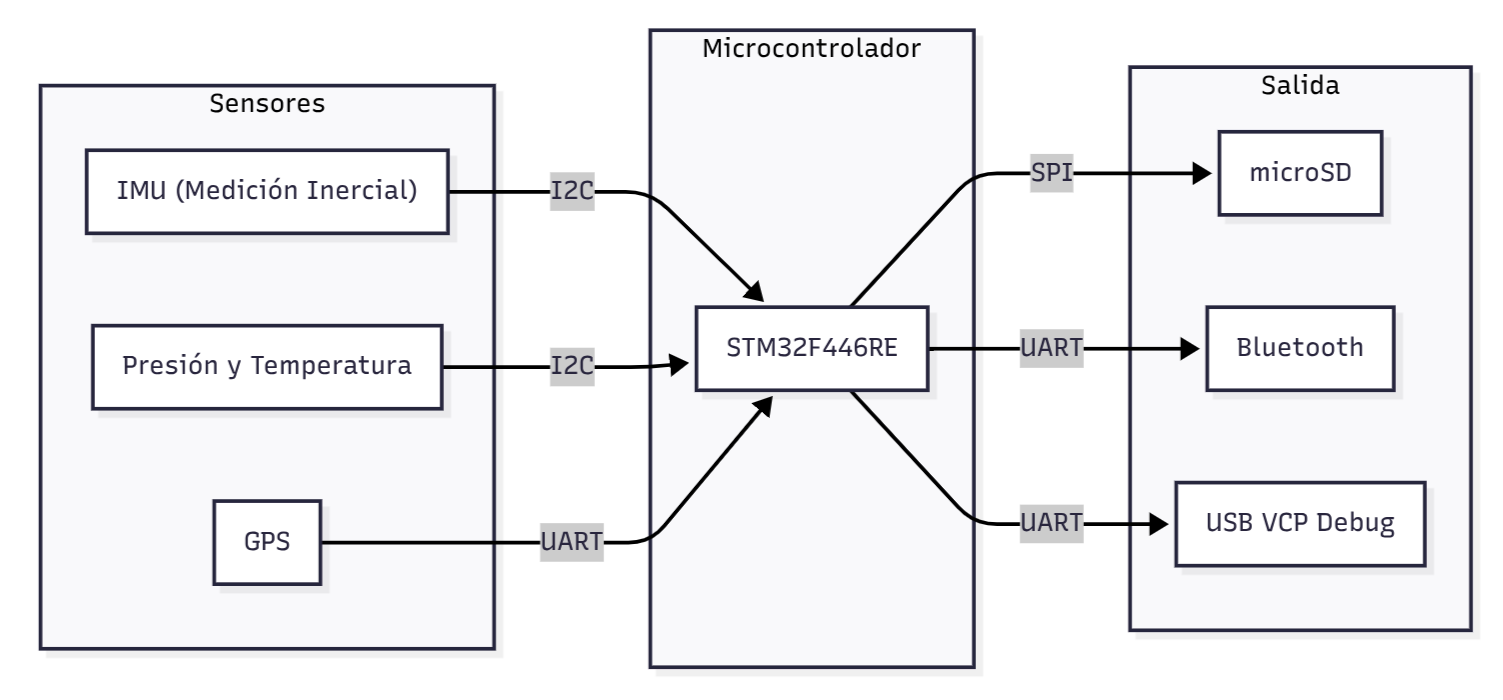
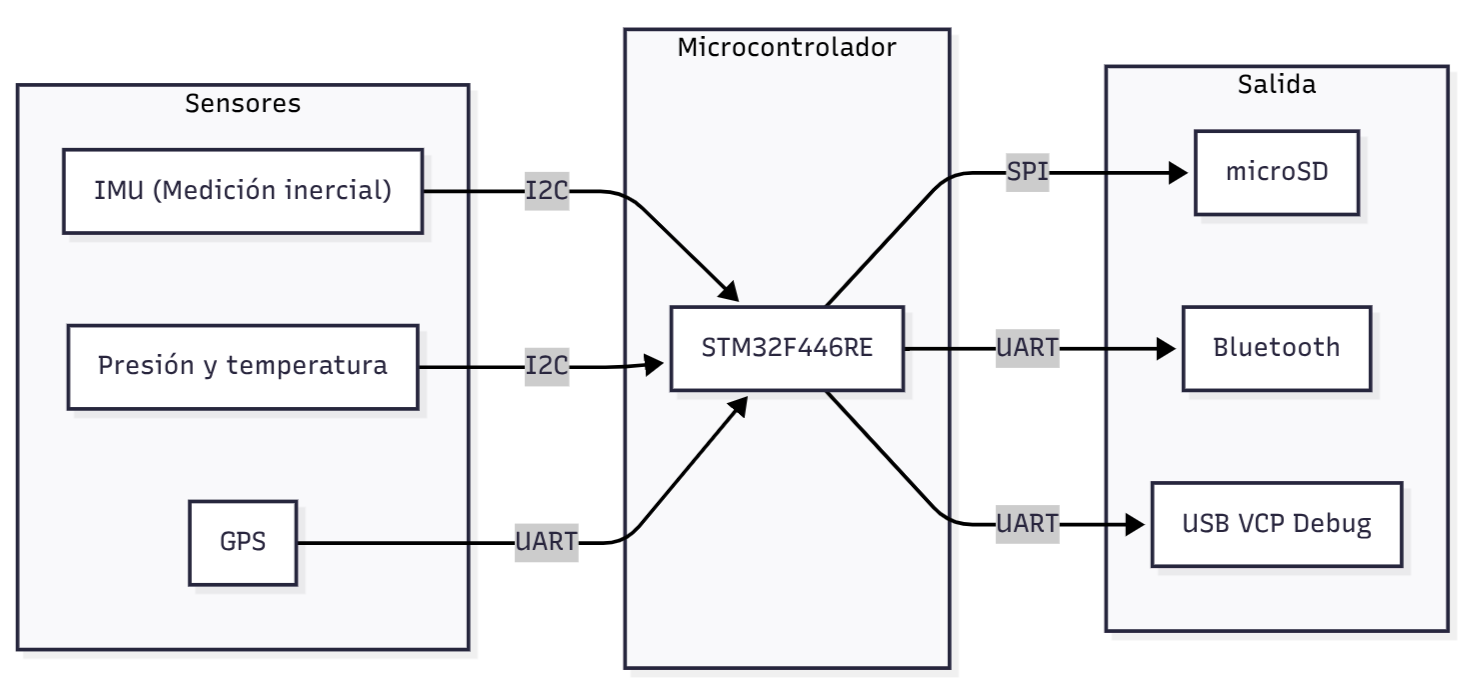
Correciones primera entrega

diff --git a/charter.tex b/charter.tex
@@ -5,7 +5,7 @@
 
 
 % El títulos de la memoria, se usa en la carátula y se puede usar el cualquier lugar del documento con el comando \ttitle
-\titulo{Sistema de Telemetría y Detección de Eventos para Motocicletas} 
+\titulo{Sistema de telemetría y detección de eventos para motocicletas} 
 
 % Nombre del posgrado, se usa en la carátula y se puede usar el cualquier lugar del documento con el comando \degreename
 \posgrado{Carrera de Especialización en Sistemas Embebidos} 
@@ -30,7 +30,7 @@
  
 \fechaINICIO{28 de abril de 2026}		%Fecha de inicio de la cursada de GdP \fechaInicioName
 \fechaFINALPlan{16 de junio de 2026} 	%Fecha de final de cursada de GdP
-\fechaFINALTrabajo{SIN DEFINIR}	%Fecha de defensa pública del trabajo final
+\fechaFINALTrabajo{mes de diciembre 2026}	%Fecha de defensa pública del trabajo final
 
 
 \begin{document}
@@ -85,7 +85,7 @@ Buenos Aires, \fechaInicioName
 
 \vspace{2cm}
 
-Por medio de la presente se acuerda con el \authorname\hspace{1px} que su Trabajo Final de la \degreename\hspace{1px} se titulará ``\ttitle'' y consistirá en el desarrollo de un sistema embebido de adquisición, registro y transmisión en tiempo real de datos de telemetría para motocicletas. El trabajo tendrá un presupuesto preliminar estimado de \textcolor{red}{600} horas y un costo estimado de \textcolor{red}{\$ XXX}, con fecha de inicio el \fechaInicioName\hspace{1px} y fecha de presentación pública el \fechaFinalName.
+Por medio de la presente se acuerda con el \authorname\hspace{1px} que su Trabajo Final de la \degreename\hspace{1px} se titulará ``\ttitle'' y consistirá en el desarrollo de un sistema embebido de adquisición, registro y transmisión en tiempo real de datos de telemetría para motocicletas. El trabajo tendrá un presupuesto preliminar estimado de \textcolor{red}{600} horas y un costo estimado de \textcolor{red}{\$ XXX}, con fecha de inicio el \fechaInicioName\hspace{1px} y fecha de presentación pública en el \fechaFinalName.
 
 Se adjunta a esta acta la planificación inicial.
 
@@ -106,7 +106,7 @@ Se adjunta a esta acta la planificación inicial.
 
 El proyecto consiste en el desarrollo de un un sistema embebido de adquisición, registro y transmisión de telemetría para motocicletas. El dispositivo está diseñado para capturar variables cinemáticas, ambientales y eléctricas, con un enfoque mixto entre el monitoreo de la conducción y la documentación de rutas.
 
-El mismo se encuadra como un emprendimiento personal en el marco del Trabajo Final de la \textit{Carrera de Especialización en Sistemas Embebidos} (CESE) de la \textit{Facultad de Ingeniería de la Universidad de Buenos Aires} (FIUBA). La motivación principal surge de la dificultad que enfrentan los motociclistas para acceder a datos precisos sobre su estilo de manejo y el comportamiento dinámico de su vehículo sin recurrir a equipos de alta competición costosos.
+El mismo se encuadra como un emprendimiento personal en el marco del Trabajo Final de la Carrera de Especialización en Sistemas Embebidos (CESE) de la Facultad de Ingeniería de la Universidad de Buenos Aires (FIUBA). La motivación principal surge de la dificultad que enfrentan los motociclistas para acceder a datos precisos sobre su estilo de manejo y el comportamiento dinámico de su vehículo sin recurrir a equipos de alta competición costosos.
 
 En comparación con el estado del arte actual, donde estos sistemas suelen ser costosos y están orientados casi exclusivamente a la competición profesional, esta solución destaca por su accesibilidad y su capacidad de integración. A diferencia de los dispositivos comerciales estándar que se limitan al registro de posición y velocidad, la propuesta integra variables cinemáticas como el ángulo de inclinación, y el estado eléctrico y térmico del vehículo en un solo equipo.
 
@@ -115,11 +115,11 @@ Para abordar esta problemática, el proyecto propone combinar la captura de dato
 El sistema centraliza la información de múltiples sensores mediante interfaces de comunicación comunes (\textit{Inter-Integrated Circuit} (I2C), \textit{Serial Peripheral Interface} (SPI), \textit{Universal Asynchronous Receiver-Transmitter} (UART)). Sus funciones principales incluyen:
 
 \begin{itemize}
-    \item \textbf{Registro de ruta y visualización de viajes:} utiliza un módulo \textit{Global Positioning System} (GPS) para obtener posición y velocidad con alta precisión. Estos datos permiten generar mapas de recorrido dinámicos en una aplicación web, permitiendo al usuario analizar su trayectoria y velocidad en cada tramo.
-    \item \textbf{Detección de eventos críticos:} registra caídas, maniobras bruscas (aceleración/frenado) e inclinaciones excesivas. Al detectar un evento, el sistema lo regsitra para su posterior análisis.
-    \item \textbf{Análisis dinámico:} captura datos de una \textit{IMU} (Inertial Measurement Unit) y un barómetro para estimar ángulos de inclinación, aceleración y altitud.
-    \item \textbf{Gestión de datos:} registra la información en una tarjeta \textit{microSD} mediante un esquema de \textit{double buffering} y transmite vía \textit{Bluetooth} a una aplicación web.
-    \item \textbf{Robustez y autonomía:} incluye un \textit{watchdog} para recuperación automática ante fallos y modos de bajo consumo para optimizar el uso de la batería de la moto.
+    \item Registro de ruta y visualización de viajes: utiliza un módulo \textit{Global Positioning System} (GPS) para obtener posición y velocidad con alta precisión. Estos datos permiten generar mapas de recorrido dinámicos en una aplicación web, permitiendo al usuario analizar su trayectoria y velocidad en cada tramo.
+    \item Detección de eventos críticos: registra caídas, maniobras bruscas (aceleración/frenado) e inclinaciones excesivas. Al detectar un evento, el sistema lo regsitra para su posterior análisis.
+    \item Análisis dinámico: captura datos de una IMU (Inertial Measurement Unit) y un barómetro para estimar ángulos de inclinación, aceleración y altitud.
+    \item Gestión de datos: registra la información en una tarjeta \textit{microSD} mediante un esquema de \textit{double buffering} y transmite vía Bluetooth a una aplicación web.
+    \item Robustez y autonomía: incluye un \textit{watchdog} para recuperación automática ante fallos y modos de bajo consumo para optimizar el uso de la batería de la moto.
 \end{itemize}
 
 En la figura \ref{fig:diagBloques} se presenta el diagrama en bloques del sistema. Se observa un microcontrolador encargado de coordinar la lectura de todos los sensores y escribir hacia las diferentes salidas del sistema.
@@ -156,7 +156,7 @@ Usuario final & Conductores de motocicletas & -             	& -       	\\ \hlin
 \section{3. Propósito del proyecto}
 \label{sec:proposito}
 
-Desarrollar un sistema embebido de adquisición de datos que permita a los motociclistas analizar su conducción mediante el registro de variables cinemáticas, ambientales y eléctricas. El objetivo es cubrir la escasez de dispositivos de telemetría accesibles que integren la medición de ángulos de inclinación, el monitoreo térmico y eléctrico del vehículo, y el registro de rutas mediante tecnología \textit{GPS} para la visualización de trayectos en tiempo real e históricos.
+Desarrollar un sistema embebido de adquisición de datos que permita a los motociclistas analizar su conducción mediante el registro de variables cinemáticas, ambientales y eléctricas. El objetivo es cubrir la escasez de dispositivos de telemetría accesibles que integren la medición de ángulos de inclinación, el monitoreo térmico y eléctrico del vehículo, y el registro de rutas mediante tecnología GPS para la visualización de trayectos en tiempo real e históricos.
 
 \section{4. Alcance del proyecto}
 \label{sec:alcance}
@@ -166,9 +166,9 @@ El proyecto incluye:
 \begin{itemize}
 	\item Estudio y selección de sensores.
 	\item Diseño y desarrollo del firmware: basado en el microcontrolador \textit{STM32F446RE}, implementando una máquina de estados finita para la gestión del sistema.
-	\item Optimización de recursos del microcontrolador: uso de double buffering para asegurar el registro en la microSD sin pérdida de datos y \textit{Direct Memory Access} (DMA) para reducir el consumo.
-	\item Lógica para la detección de eventos críticos (aceleraciones y frenadas bruscas) y el cálculo de scoring de conducción.
-	\item Desarrollo de una aplicación web que se comunique por \textit{Bluetooth} para visualizar telemetría en tiempo real y mapas de recorrido.
+	\item Optimización de recursos del microcontrolador: uso de \textit{double buffering} para asegurar el registro en la microSD sin pérdida de datos y \textit{Direct Memory Access} (DMA) para reducir el consumo.
+	\item Lógica para la detección de eventos críticos (aceleraciones y frenadas bruscas) y el cálculo de \textit{scoring} de conducción.
+	\item Desarrollo de una aplicación web que se comunique por Bluetooth para visualizar telemetría en tiempo real y mapas de recorrido.
 	\item Pruebas
 		\begin{itemize}
 		\item Unitarias de los manejadores de los sensores.
@@ -183,7 +183,7 @@ El proyecto incluye:
 
 El proyecto no incluye:
 \begin{itemize}
-	\item Conectividad a Internet: el sistema se limita a la transmisión local vía \textit{Bluetooth}.
+	\item Conectividad a Internet: el sistema se limita a la transmisión local vía Bluetooth.
 	\item Diseño y fabricación de un \textit{Printed Circuit Board} (PCB): el prototipo se desarrollará utilizando módulos comerciales cableados.
 	\item El diseño ni la fabricación de un gabinete para el dispositivo.
 \end{itemize}
@@ -197,7 +197,6 @@ Para el desarrollo del presente proyecto se supone que:
 	\item El responsable del proyecto, \authorname, cuenta con la dedicación horaria necesaria para cumplir con la planificación y ejecución del mismo.
 	\item Al tratarse de un emprendimiento personal, el responsable del proyecto actuará también como el auspiciante, garantizando la disponibilidad del presupuesto para la adquisición de los componentes de hardware.
 	\item Los componentes electrónicos a utilizar se podrán adquirir en el mercado local o internacional en tiempo y forma para no demorar las etapas del mismo.
-	\item El Director del Trabajo Final, \supname , y el responsable del proyecto acordarán reuniones periódicas para realizar el seguimiento del avance.
 	\item Se dispondrá de una unidad de prueba (motocicleta) que permita la validación funcional del sistema.
 	\item El usuario final contará con un dispositivo móvil para la visualización de la información de telemetría.
 	\item El responsable del proyecto, \authorname, solo se ausentará de manera indefinida en caso de enfrentar una situación de fuerza mayor.